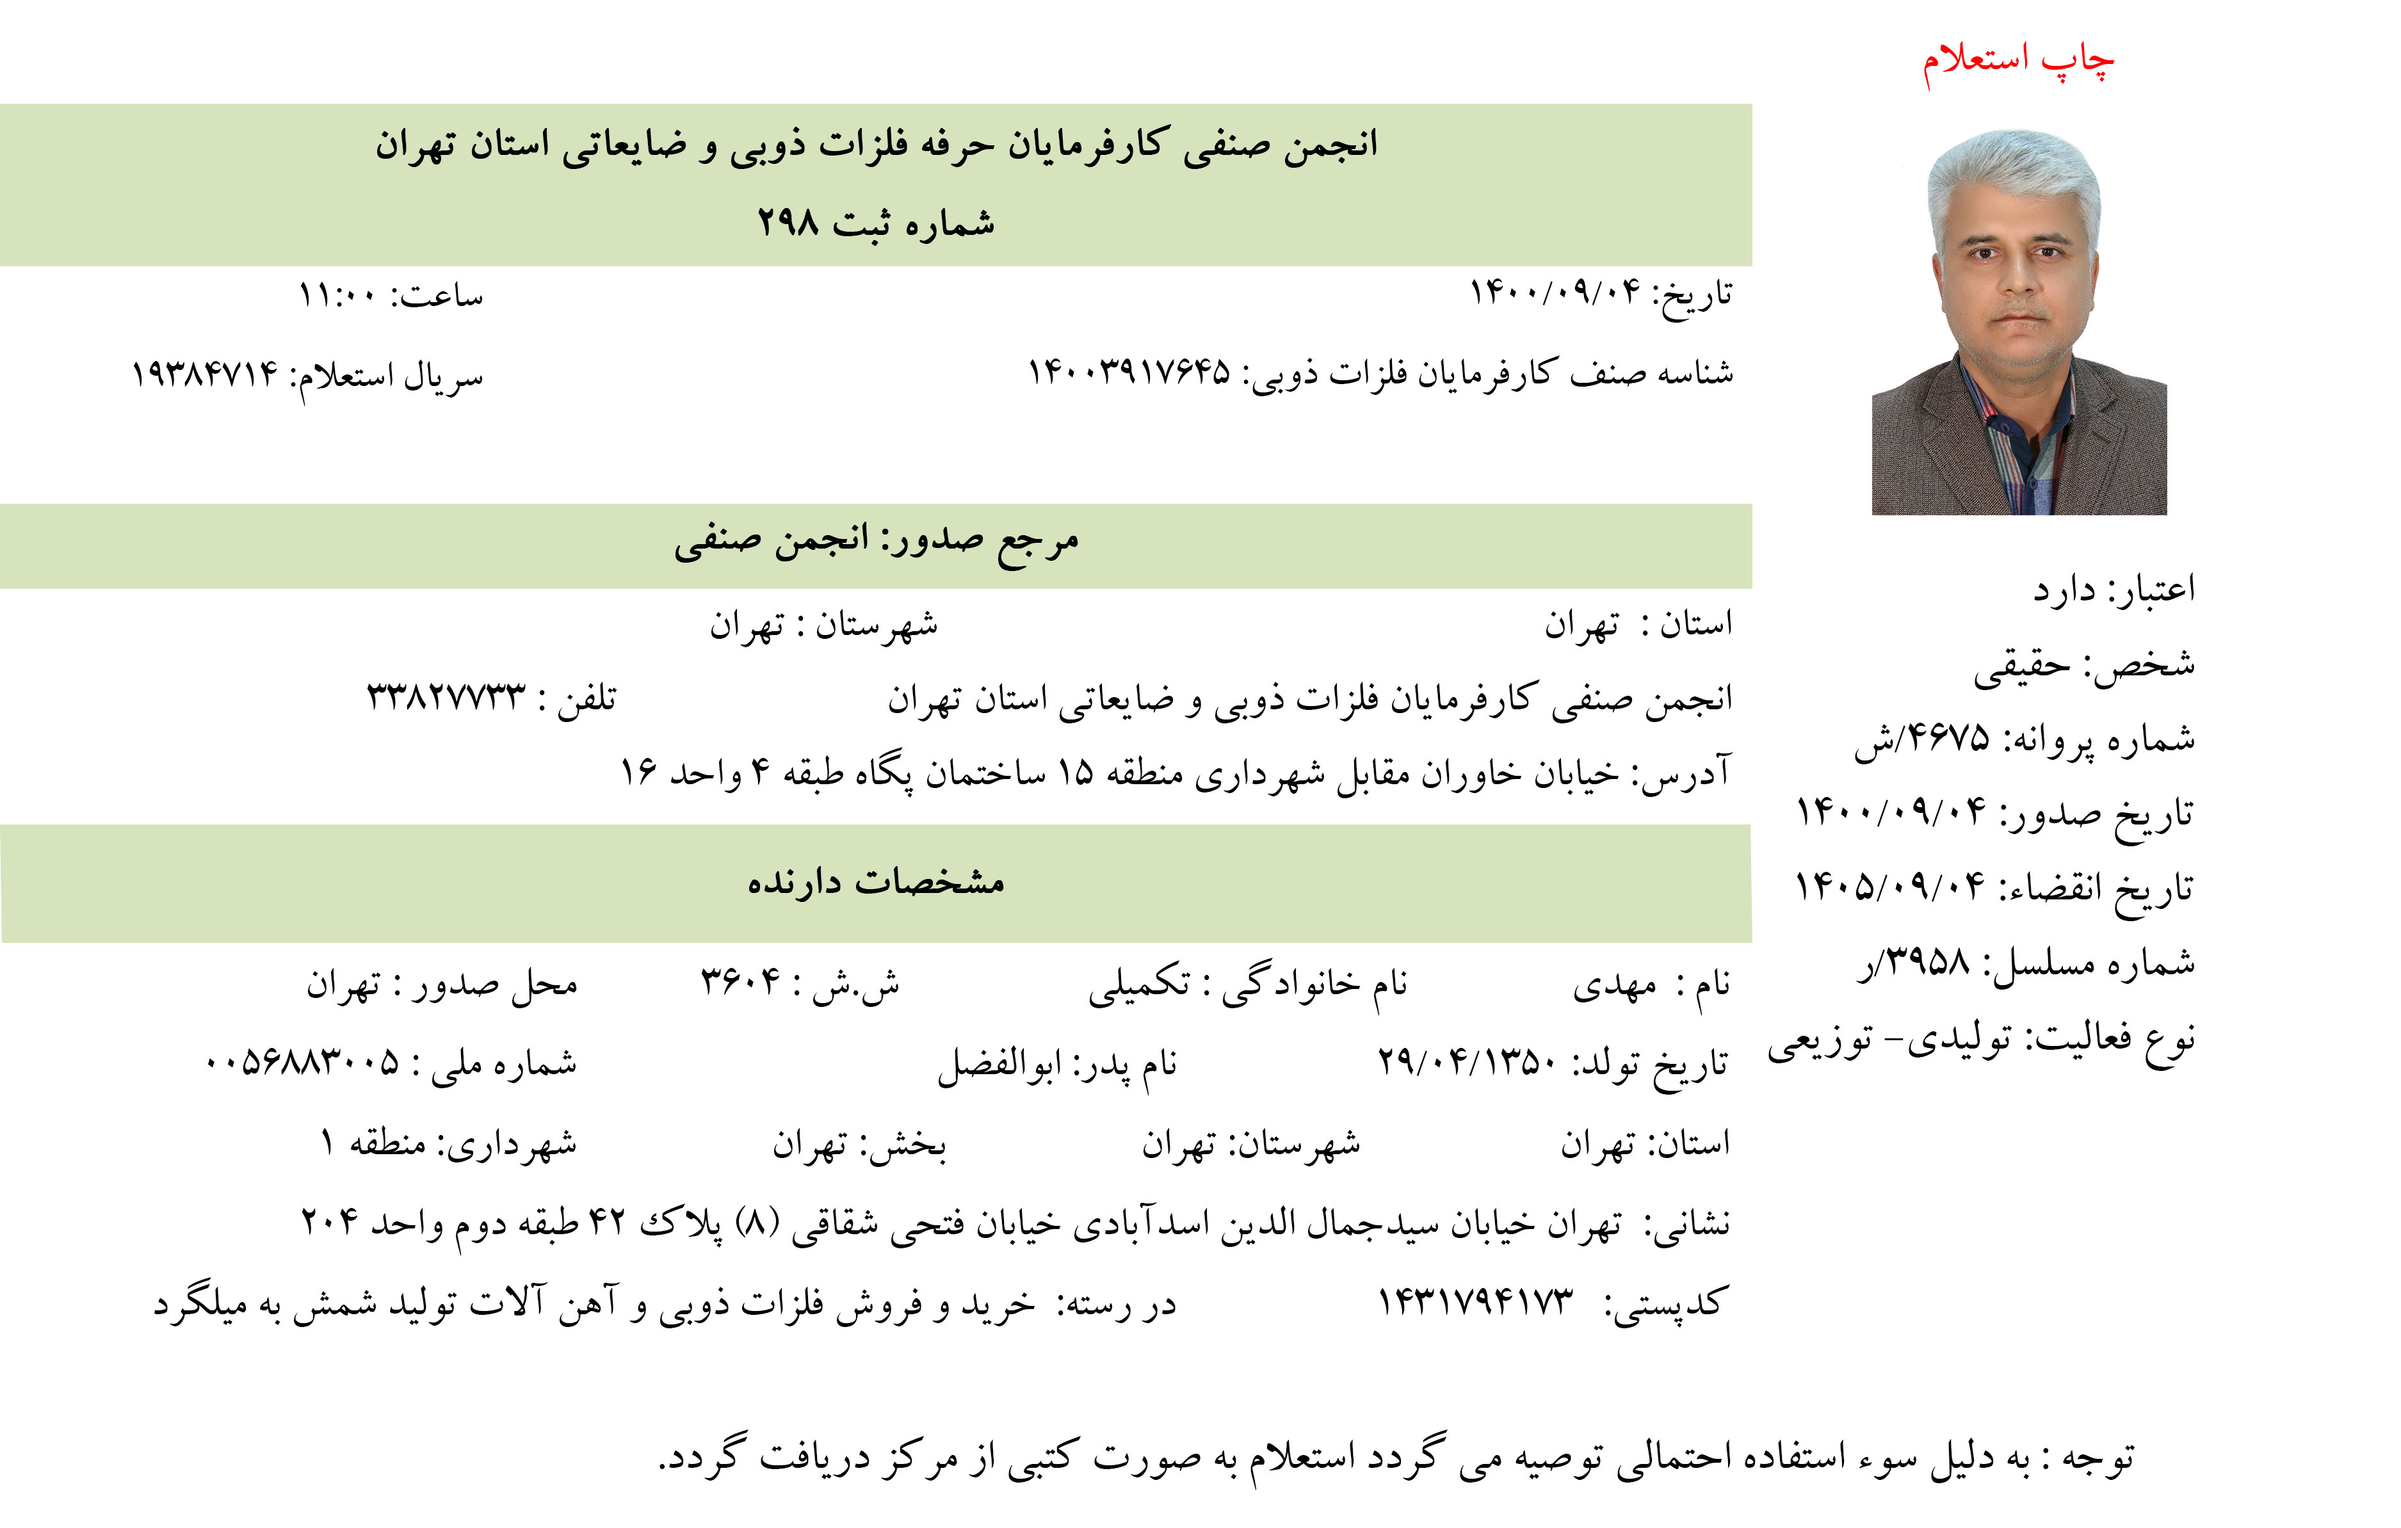
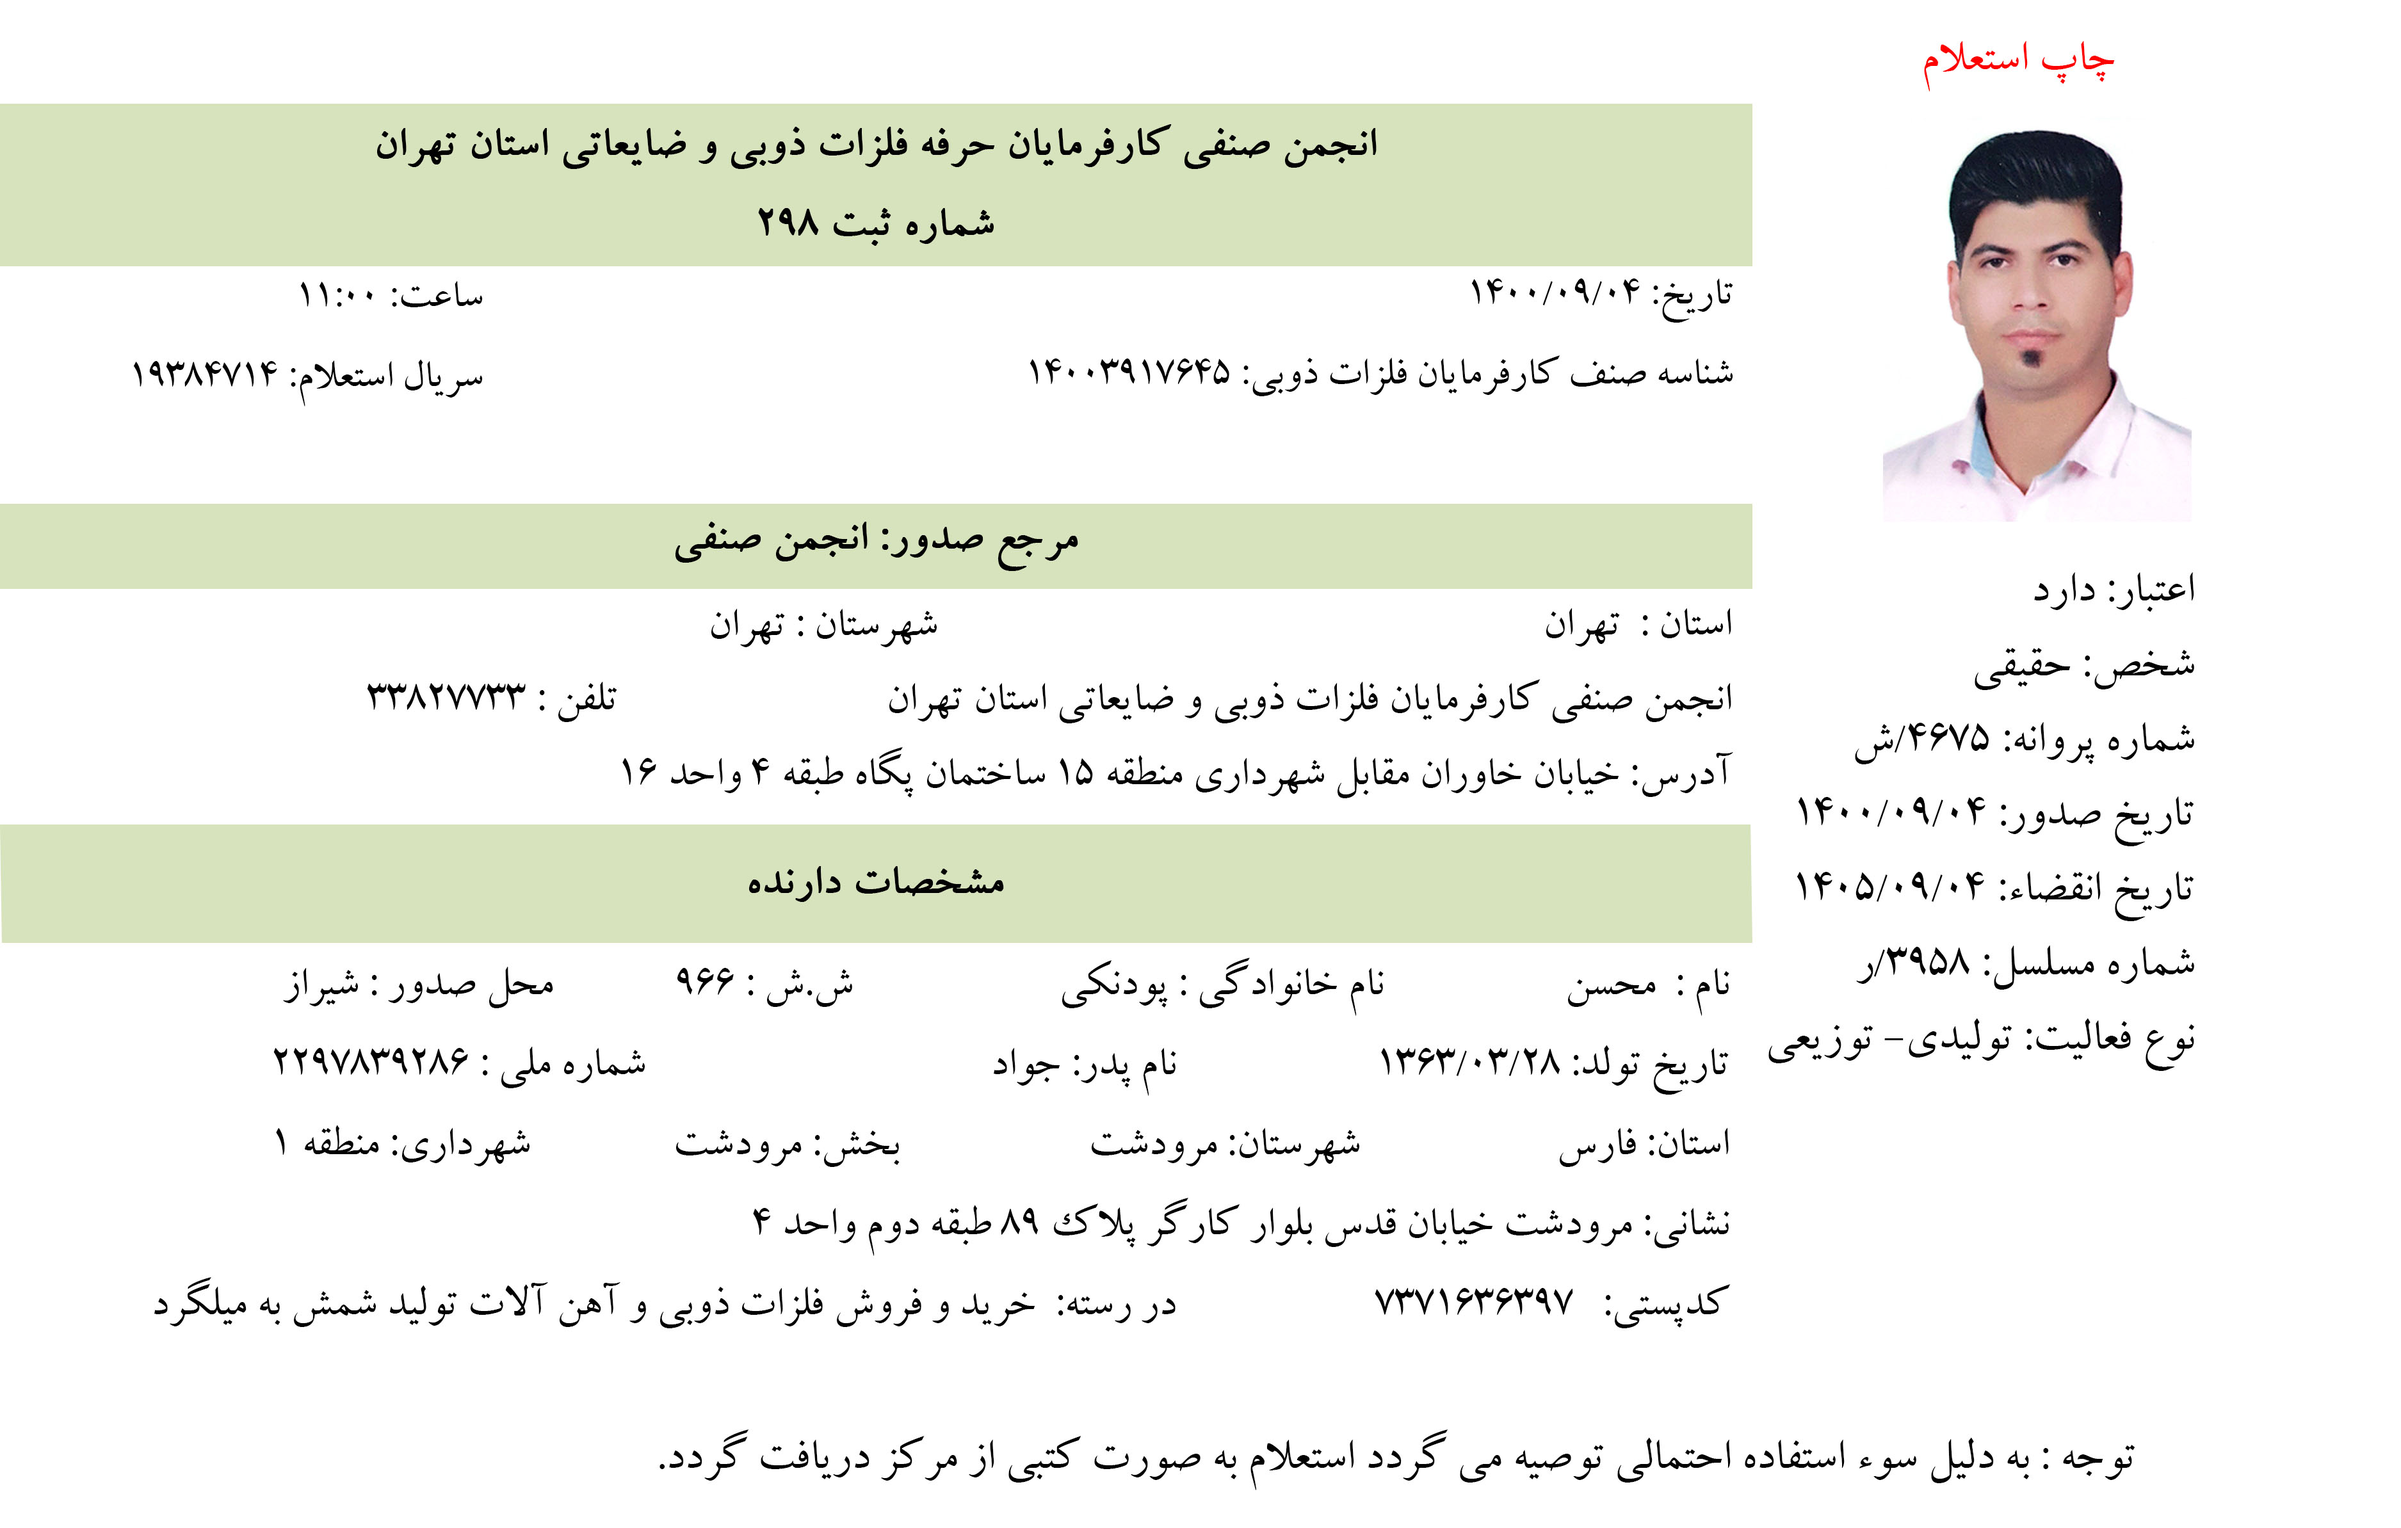
Add files via upload

diff --git a/senfe.felezat.html b/senfe.felezat.html
@@ -1,7 +1,7 @@
 <!DOCTYPE html PUBLIC "-//W3C//DTD XHTML 1.0 Transitional//EN" "http://www.w3.org/TR/xhtml1/DTD/xhtml1-transitional.dtd">
 <html xmlns="http://www.w3.org/1999/xhtml" dir="rtl" lang="fa-IR" class="js"><head profile="http://gmpg.org/xfn/11"><meta http-equiv="Content-Type" content="text/html; charset=UTF-8">
 <link href="1001.png" rel="shortcut icon"/>
-<title>  آقای مهدی تکمیلی | صنف کارفرمایان فلزات استان تهران</title>
+<title>  آقای محسن پودنکی | صنف کارفرمایان فلزات استان تهران</title>
 
 <link rel="stylesheet" href="style.css" type="text/css" media="screen">
 <link rel="alternate" type="application/rss+xml" title="صنف کارفرمایان فلزات استان تهران RSS Feed" href="https://shahrakefelezat.ir">
@@ -110,7 +110,7 @@ body.custom-background { background-color: #00b2a6; }
 	<div id="pagetop">
 	<div class="container">
 		<h1>
-			آقای مهدی تکمیلی		</h1>
+			آقای محسن پودنکی		</h1>
 				
 	</div> <!-- end .container -->
 </div> <!-- end #pagetop -->
@@ -120,7 +120,7 @@ body.custom-background { background-color: #00b2a6; }
 		
 						    <a href="https://shahrakefelezat.ir/user">خانه</a> »
 					
-											  استعلام پروانه: آقای مهدی تکمیلی								
+											  استعلام پروانه: آقای محسن پودنکی								
 	</div> <!-- end .container -->
 </div> <!-- end #breadcrumbs -->	
 	<div id="content" class="clearfix">
